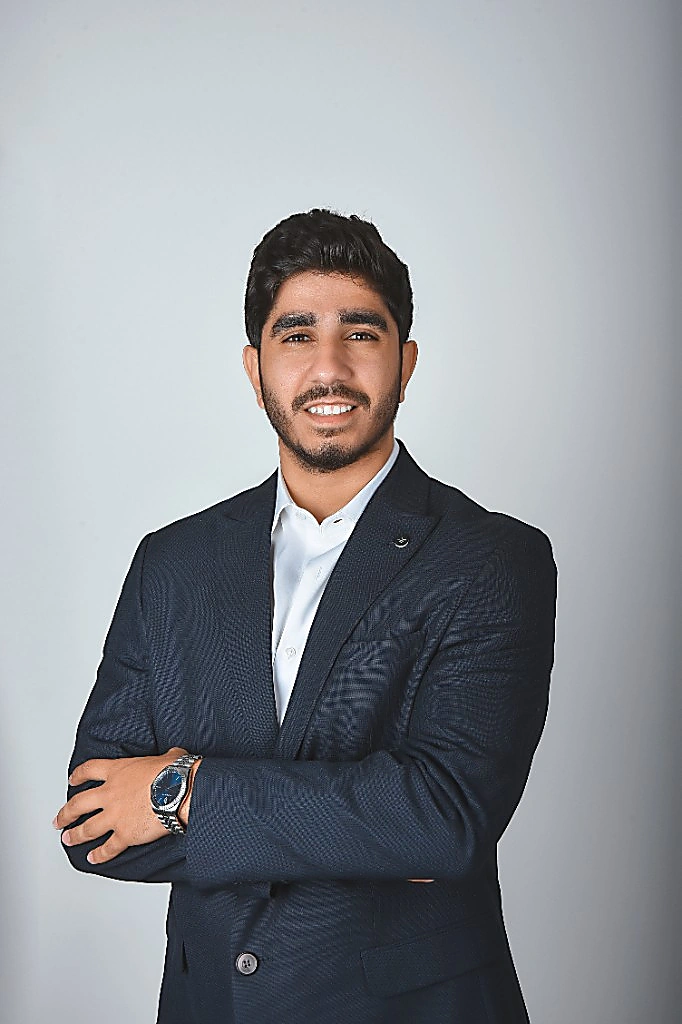
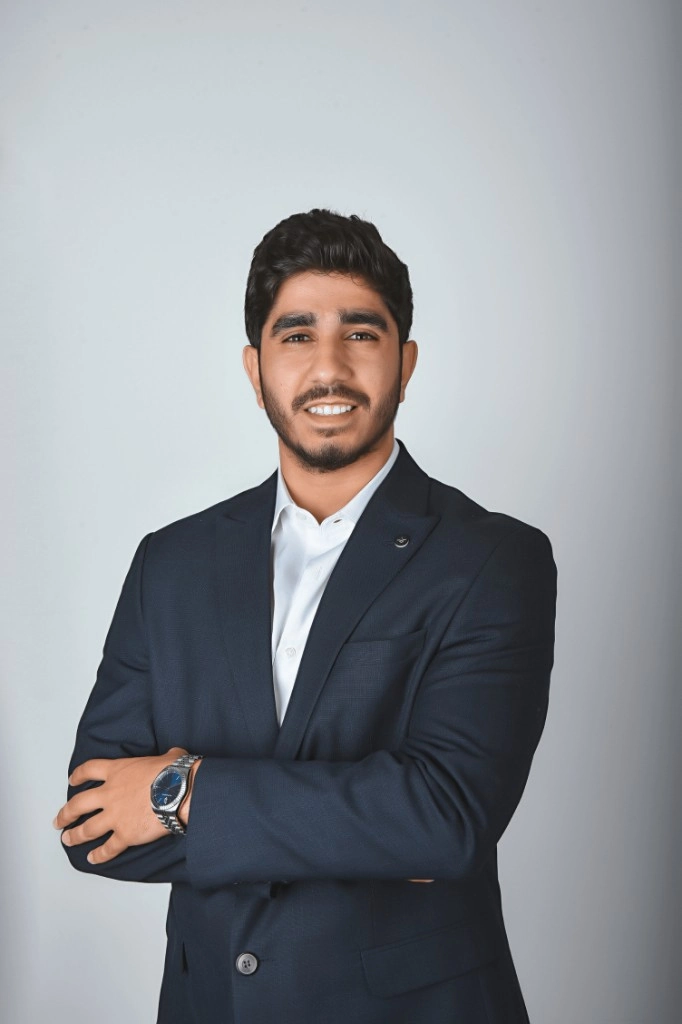
Add portrait component and update site metadata
Add responsive portrait assets and a PortraitImage component (picture/img) and stop using next/image for the profile portrait. Update global CSS for portrait styling and include new images in the static build outputs. Consolidate page copy into PAGE_COPY and update pages to use it; tweak copy and layout classes. Update SITE constants (title, image paths, sizes, new webp 2x) and adjust SEO to use SITE.image and jobTitle. Remove repository/demo-url rendering and related project fields, update project roles/experience/stats, and remove unused icon mapping.

diff --git a/src/app/about/page.tsx b/src/app/about/page.tsx
@@ -1,5 +1,4 @@
 import type { Metadata } from "next";
-import Image from "next/image";
 import Link from "next/link";
 import Footer from "@/components/layout/Footer";
 import JsonLd from "@/components/seo/JsonLd";
@@ -7,16 +6,17 @@ import ArticleHeader from "@/components/ui/ArticleHeader";
 import CtaBand from "@/components/ui/CtaBand";
 import Icon from "@/components/ui/Icon";
 import PageHeader from "@/components/ui/PageHeader";
+import PortraitImage from "@/components/ui/PortraitImage";
 import ProfileIdentity from "@/components/ui/ProfileIdentity";
 import SectionHeader from "@/components/ui/SectionHeader";
 import TechTag from "@/components/ui/TechTag";
-import { SITE } from "@/lib/constants";
+import { SITE, PAGE_COPY } from "@/lib/constants";
 import { buildPageMetadata, breadcrumbJsonLd } from "@/lib/seo";
 import { experience, stats } from "@/lib/projects";
 
 export const metadata: Metadata = buildPageMetadata({
   title: `About | ${SITE.name} - ${SITE.nameAr}`,
-  description: `${SITE.name} (${SITE.nameAr}), ${SITE.title} in Cairo, Egypt. Full stack product work, technical strategy, and team leadership across the MENA region.`,
+  description: PAGE_COPY.aboutDescription,
   path: "/about",
 });
 
@@ -40,19 +40,15 @@ export default function AboutPage() {
             className="mb-stack-lg md:mb-12"
           />
           <div className="grid grid-cols-1 items-stretch gap-gutter lg:grid-cols-12">
-            <div className="surface-card group relative overflow-hidden p-2 lg:col-span-5 lg:min-h-[520px] xl:min-h-[640px]">
-              <div className="relative aspect-[4/5] overflow-hidden bg-surface-container-low lg:absolute lg:inset-2 lg:aspect-auto lg:h-[calc(100%-1rem)]">
-                <Image
-                  src={SITE.image}
-                  alt={`${SITE.name} (${SITE.nameAr}), ${SITE.title} portrait`}
-                  width={SITE.imageWidth}
-                  height={SITE.imageHeight}
+            <figure className="surface-card relative overflow-hidden p-2 lg:col-span-5">
+              <div className="relative mx-auto w-full max-w-[682px] bg-surface-container-low">
+                <PortraitImage
                   priority
-                  sizes="(max-width: 1024px) 100vw, 42vw"
-                  className="h-full w-full object-cover object-top grayscale transition-all duration-700 group-hover:scale-105 group-hover:grayscale-0"
+                  sizes="(max-width: 1024px) 100vw, min(42vw, 682px)"
+                  className="portrait-photo aspect-[682/1024] h-auto w-full object-cover object-[center_8%]"
                 />
               </div>
-            </div>
+            </figure>
 
             <div className="flex flex-col gap-stack-lg lg:col-span-7 lg:gap-stack-xl">
               <ProfileIdentity className="hidden lg:block" />
@@ -75,7 +71,7 @@ export default function AboutPage() {
                 </p>
                 <p className="font-body text-body-lg leading-relaxed text-on-surface-variant md:text-[1.125rem] md:leading-[1.8] lg:text-[1.2rem] lg:leading-[1.85]">
                   Based in Cairo, I work with local teams and remote clients. Whether I&apos;m
-                  leading a squad or hands-on in the codebase, I care about clear communication,
+                  leading teams or hands-on in the codebase, I care about clear communication,
                   sensible trade-offs, and shipping work that holds up after launch.
                 </p>
               </div>
@@ -129,7 +125,7 @@ export default function AboutPage() {
 
       <section className="page-section">
         <div className="w-full">
-          <SectionHeader eyebrow="Career" title="Professional Journey" index="02" />
+          <SectionHeader eyebrow="Career" title="Professional Journey" />
           <div className="relative mx-auto max-w-4xl">
             <div className="timeline-line absolute left-4 hidden h-full md:left-1/2 md:block md:-translate-x-1/2" />
             <div className="flex flex-col gap-12 md:gap-24">

diff --git a/src/lib/constants.ts b/src/lib/constants.ts
@@ -2,7 +2,7 @@
 export const CAREER_START_YEAR = 2021;
 export const CAREER_START_MONTH = 5;
 
-export function getYearsExperience(referenceDate = new Date()): string {
+function getYearsExperience(referenceDate = new Date()): string {
   let years = referenceDate.getFullYear() - CAREER_START_YEAR;
   if (referenceDate.getMonth() + 1 < CAREER_START_MONTH) {
     years -= 1;
@@ -15,15 +15,15 @@ const yearsExperience = getYearsExperience();
 export const SITE = {
   name: "Omar Henidi",
   nameAr: "عمر هنيدي",
-  title: "Full Stack Engineer & Technical Team Lead",
+  title: "Technical Director & Full Stack Engineer",
   heroTagline: "Building and leading scalable web products.",
   yearsExperience,
   seoDescription:
-    "Portfolio of Omar Henidi (عمر هنيدي), Full Stack Engineer and Technical Team Lead in Cairo, Egypt. Projects, work history, and links to LinkedIn, GitHub, Instagram, and X.",
+    "Portfolio of Omar Henidi (عمر هنيدي), Technical Director and Full Stack Engineer in Cairo, Egypt. Projects, work history, and links to LinkedIn, GitHub, Instagram, and X.",
   url: process.env.NEXT_PUBLIC_SITE_URL ?? "https://omarhenidi.com",
   email: "omarhenidi@gmail.com",
   phone: "+201004753538",
-  location: "Egypt, Cairo",
+  location: "Cairo, Egypt",
   availability: "Open for new projects, H2 2026",
   socialUsername: "omarhenidi",
   alternateNames: ["عمر هنيدي", "Omar Henidi", "عمر هنيدى"] as const,
@@ -34,11 +34,22 @@ export const SITE = {
     "https://github.com/omarhenidi",
   ],
   resumeUrl: "https://www.linkedin.com/in/omarhenidi",
-  image: "/images/portrait.webp",
+  image: "/images/portrait.jpg",
+  imageWebp: "/images/portrait.webp",
+  imageWebp2x: "/images/portrait-2x.webp",
   ogImage: "/og-image.png",
   icon: "/icon.png",
   imageWidth: 682,
   imageHeight: 1024,
+  imageWidth2x: 1364,
+} as const;
+
+export const PAGE_COPY = {
+  aboutDescription: `${SITE.name} (${SITE.nameAr}), ${SITE.title} in ${SITE.location}. Full stack product work, technical strategy, and team leadership across the MENA region.`,
+  workDescription: `Selected projects by ${SITE.name} (${SITE.nameAr}): SaaS, e-commerce, fintech, and EdTech work as ${SITE.title}.`,
+  contactDescription: `Get in touch with ${SITE.name} (${SITE.nameAr}), ${SITE.title}, for projects in Cairo and worldwide.`,
+  contactIntro:
+    "Working on something and need technical leadership or hands-on full stack engineering? I'm open to new projects. Send a message and tell me what you're building.",
 } as const;
 
 export const SOCIAL_LINKS = [

diff --git a/src/lib/projects.ts b/src/lib/projects.ts
@@ -15,12 +15,9 @@ export type Project = {
   role?: string;
   timeline?: string;
   status?: string;
-  demoUrl?: string;
-  adminDemoUrl?: string;
   sites?: { label: string; url: string }[];
   privateSites?: { label: string }[];
   dashboardFeatures?: string[];
-  repoUrl?: string;
   overview?: string[];
   architecture?: { icon: IconName; title: string; description: string }[];
   results?: { value: string; label: string }[];
@@ -47,7 +44,7 @@ export const projects: Project[] = [
     image: "/images/projects/maat.webp",
     imageFit: "contain",
     imageBackground: "#ffffff",
-    role: "Technical Team Lead",
+    role: "Technical Director",
     timeline: "Feb 2025 - Present",
     status: "Live Release",
     sites: [{ label: "Consumer Site", url: "https://maat.vip/" }],
@@ -69,7 +66,7 @@ export const projects: Project[] = [
     ],
     overview: [
       "MAAT Group helps businesses import from China. The public site at maat.vip walks clients through sourcing, quality control, logistics, and cost estimates. The admin dashboard handles the day-to-day work: products, quotes, orders, clients, suppliers, and more.",
-      "As Technical Team Lead, I lead enterprise system setup and deployment, work with other teams to integrate solutions, and keep both platforms stable, fast, and secure.",
+      "As Technical Director, I lead enterprise system setup and deployment, work with other teams to integrate solutions, and keep both platforms stable, fast, and secure.",
     ],
     architecture: [
       {
@@ -248,7 +245,7 @@ export function getAdjacentProjects(slug: string) {
 export const featuredProjects = projects.slice(0, 4);
 
 export const experience = [
-  { company: "MAAT", role: "Technical Team Lead", period: "Feb 2025 - Present", current: true },
+  { company: "MAAT Group", role: "Technical Director", period: "Feb 2025 - Present", current: true },
   { company: "NAYA AL-ALAM", role: "Full Stack Team Lead", period: "Sep 2023 - Oct 2025", current: false },
   { company: "TechieSonic", role: "Full Stack Engineer", period: "Feb 2023 - Oct 2023", current: false },
   { company: "Techno Space", role: "Mentor", period: "Feb 2023 - Apr 2023", current: false },
@@ -260,6 +257,6 @@ export const experience = [
 export const stats = [
   { value: "9", label: "Projects Delivered" },
   { value: SITE.yearsExperience, label: "Years Experience" },
-  { value: "3", label: "Teams Led" },
+  { value: "2", label: "Teams Led" },
   { value: "MENA", label: "Expertise" },
 ] as const;

diff --git a/src/app/work/[slug]/page.tsx b/src/app/work/[slug]/page.tsx
@@ -41,12 +41,7 @@ export default async function ProjectDetailPage({ params }: ProjectDetailPagePro
   const { prev, next } = getAdjacentProjects(slug);
   const stack = project.stack ?? project.tags;
   const imageFit = project.imageFit ?? "cover";
-  const liveSites: { label: string; url: string }[] =
-    project.sites ??
-    [
-      project.demoUrl ? { label: "Live Demo", url: project.demoUrl } : null,
-      project.adminDemoUrl ? { label: "Admin Dashboard", url: project.adminDemoUrl } : null,
-    ].filter((site): site is { label: string; url: string } => site !== null);
+  const liveSites = project.sites ?? [];
   const metaItems = [
     project.role && { label: "Role", value: project.role },
     project.timeline && { label: "Timeline", value: project.timeline },
@@ -200,7 +195,7 @@ export default async function ProjectDetailPage({ params }: ProjectDetailPagePro
                 </div>
               </div>
 
-              {(liveSites.length > 0 || project.privateSites?.length || project.repoUrl) && (
+              {(liveSites.length > 0 || project.privateSites?.length) && (
                 <div className="flex flex-col gap-stack-sm">
                   {liveSites.map(({ label, url }) => (
                     <a
@@ -235,19 +230,6 @@ export default async function ProjectDetailPage({ params }: ProjectDetailPagePro
                       </span>
                     </div>
                   ))}
-                  {project.repoUrl && (
-                    <a
-                      href={project.repoUrl}
-                      target="_blank"
-                      rel="noopener noreferrer"
-                      className="surface-card group flex items-center justify-between px-6 py-4"
-                    >
-                      <span className="font-ui text-ui-label uppercase tracking-widest text-on-surface">
-                        GitHub Repository
-                      </span>
-                      <Icon name="code" size={20} className="text-on-surface-variant" />
-                    </a>
-                  )}
                 </div>
               )}
 

diff --git a/src/app/contact/page.tsx b/src/app/contact/page.tsx
@@ -2,13 +2,12 @@ import type { Metadata } from "next";
 import ContactForm from "@/components/contact/ContactForm";
 import Footer from "@/components/layout/Footer";
 import PageHeader from "@/components/ui/PageHeader";
-import { SITE, SOCIAL_LINKS } from "@/lib/constants";
+import { SITE, SOCIAL_LINKS, PAGE_COPY } from "@/lib/constants";
 import { buildPageMetadata } from "@/lib/seo";
 
 export const metadata: Metadata = buildPageMetadata({
   title: `Contact ${SITE.name} (${SITE.nameAr})`,
-  description:
-    "Get in touch with Omar Henidi (عمر هنيدي) for full stack engineering and technical leadership projects in Cairo and worldwide.",
+  description: PAGE_COPY.contactDescription,
   path: "/contact",
 });
 
@@ -20,7 +19,7 @@ export default function ContactPage() {
           <PageHeader
             eyebrow="Reach out"
             title="Contact"
-            description="Working on something and need a developer or tech lead? I&apos;m open to new projects. Send a message and tell me what you&apos;re building."
+            description={PAGE_COPY.contactIntro}
           />
         </div>
       </section>

diff --git a/src/components/ui/PortraitImage.tsx b/src/components/ui/PortraitImage.tsx
@@ -1,0 +1,38 @@
+import { SITE } from "@/lib/constants";
+
+type PortraitImageProps = {
+  className?: string;
+  priority?: boolean;
+  sizes?: string;
+};
+
+const DEFAULT_SIZES = "(max-width: 1024px) 100vw, min(42vw, 682px)";
+
+export default function PortraitImage({
+  className = "",
+  priority = false,
+  sizes = DEFAULT_SIZES,
+}: PortraitImageProps) {
+  const alt = `${SITE.name} (${SITE.nameAr}), ${SITE.title} portrait`;
+
+  return (
+    <picture>
+      <source
+        srcSet={`${SITE.imageWebp} ${SITE.imageWidth}w, ${SITE.imageWebp2x} ${SITE.imageWidth2x}w`}
+        sizes={sizes}
+        type="image/webp"
+      />
+      <img
+        src={SITE.image}
+        srcSet={`${SITE.image} ${SITE.imageWidth}w`}
+        sizes={sizes}
+        width={SITE.imageWidth}
+        height={SITE.imageHeight}
+        alt={alt}
+        decoding="async"
+        fetchPriority={priority ? "high" : "auto"}
+        className={className}
+      />
+    </picture>
+  );
+}

diff --git a/src/app/work/page.tsx b/src/app/work/page.tsx
@@ -4,13 +4,12 @@ import WorkGrid from "@/components/work/WorkGrid";
 import CtaBand from "@/components/ui/CtaBand";
 import PageHeader from "@/components/ui/PageHeader";
 import JsonLd from "@/components/seo/JsonLd";
-import { SITE } from "@/lib/constants";
+import { SITE, PAGE_COPY } from "@/lib/constants";
 import { buildPageMetadata, breadcrumbJsonLd } from "@/lib/seo";
 
 export const metadata: Metadata = buildPageMetadata({
   title: `Work | ${SITE.name} (${SITE.nameAr})`,
-  description:
-    "Selected projects by Omar Henidi (عمر هنيدي): SaaS, e-commerce, fintech, and EdTech work as a full stack engineer and tech lead.",
+  description: PAGE_COPY.workDescription,
   path: "/work",
 });
 

diff --git a/src/components/home/PhilosophySection.tsx b/src/components/home/PhilosophySection.tsx
@@ -31,7 +31,8 @@ export default function PhilosophySection() {
           <div className="grid grid-cols-12 gap-gutter">
             <p className="col-span-12 font-body text-body-lg leading-relaxed text-on-surface-variant md:col-span-8">
               For the past {SITE.yearsExperience} years I&apos;ve worked where engineering meets
-              design, mostly leading front-end work for startups and larger teams. I like clean
+              design, leading full stack teams and products for startups and larger organizations.
+              I like clean
               layouts, readable code, and products that feel considered without getting in the
               way.
             </p>

diff --git a/src/lib/seo.ts b/src/lib/seo.ts
@@ -29,7 +29,8 @@ export function personHeadJsonLd() {
     "@type": "Person",
     name: SITE.name,
     url: absolutePageUrl("/"),
-    image: absoluteUrl(SITE.icon),
+    image: absoluteUrl(SITE.image),
+    jobTitle: SITE.title,
     sameAs: [...SITE.personSameAs],
   };
 }
@@ -45,7 +46,7 @@ export const defaultKeywords = [
   "Omar Henidi Instagram",
   "عمر هنيدي مهندس",
   "Full Stack Engineer",
-  "Technical Team Lead",
+  "Technical Director",
   "Full Stack Engineering",
   "Technical Leadership",
   "Backend Development",

diff --git a/src/app/globals.css b/src/app/globals.css
@@ -39,6 +39,12 @@
 }
 
 @layer components {
+  .portrait-photo {
+    display: block;
+    max-width: 100%;
+    height: auto;
+  }
+
   .nav-link {
     @apply relative;
   }
@@ -310,14 +316,6 @@
 
   .nav-link-item:hover .line-animation {
     @apply w-[100px];
-  }
-
-  .bento-card-bordered {
-    @apply border border-[#334155] transition-colors duration-300;
-  }
-
-  .bento-card-bordered:hover {
-    @apply border-primary-container;
   }
 
   .stack-pillar:hover {

diff --git a/src/components/ui/Icon.tsx b/src/components/ui/Icon.tsx
@@ -2,7 +2,6 @@ import {
   ArrowRight,
   ArrowUpRight,
   ChevronDown,
-  Code,
   Cpu,
   ExternalLink,
   Menu,
@@ -17,7 +16,6 @@ const icons = {
   keyboard_arrow_down: ChevronDown,
   close: X,
   open_in_new: ExternalLink,
-  code: Code,
   hub: Network,
   memory: Cpu,
   menu: Menu,
